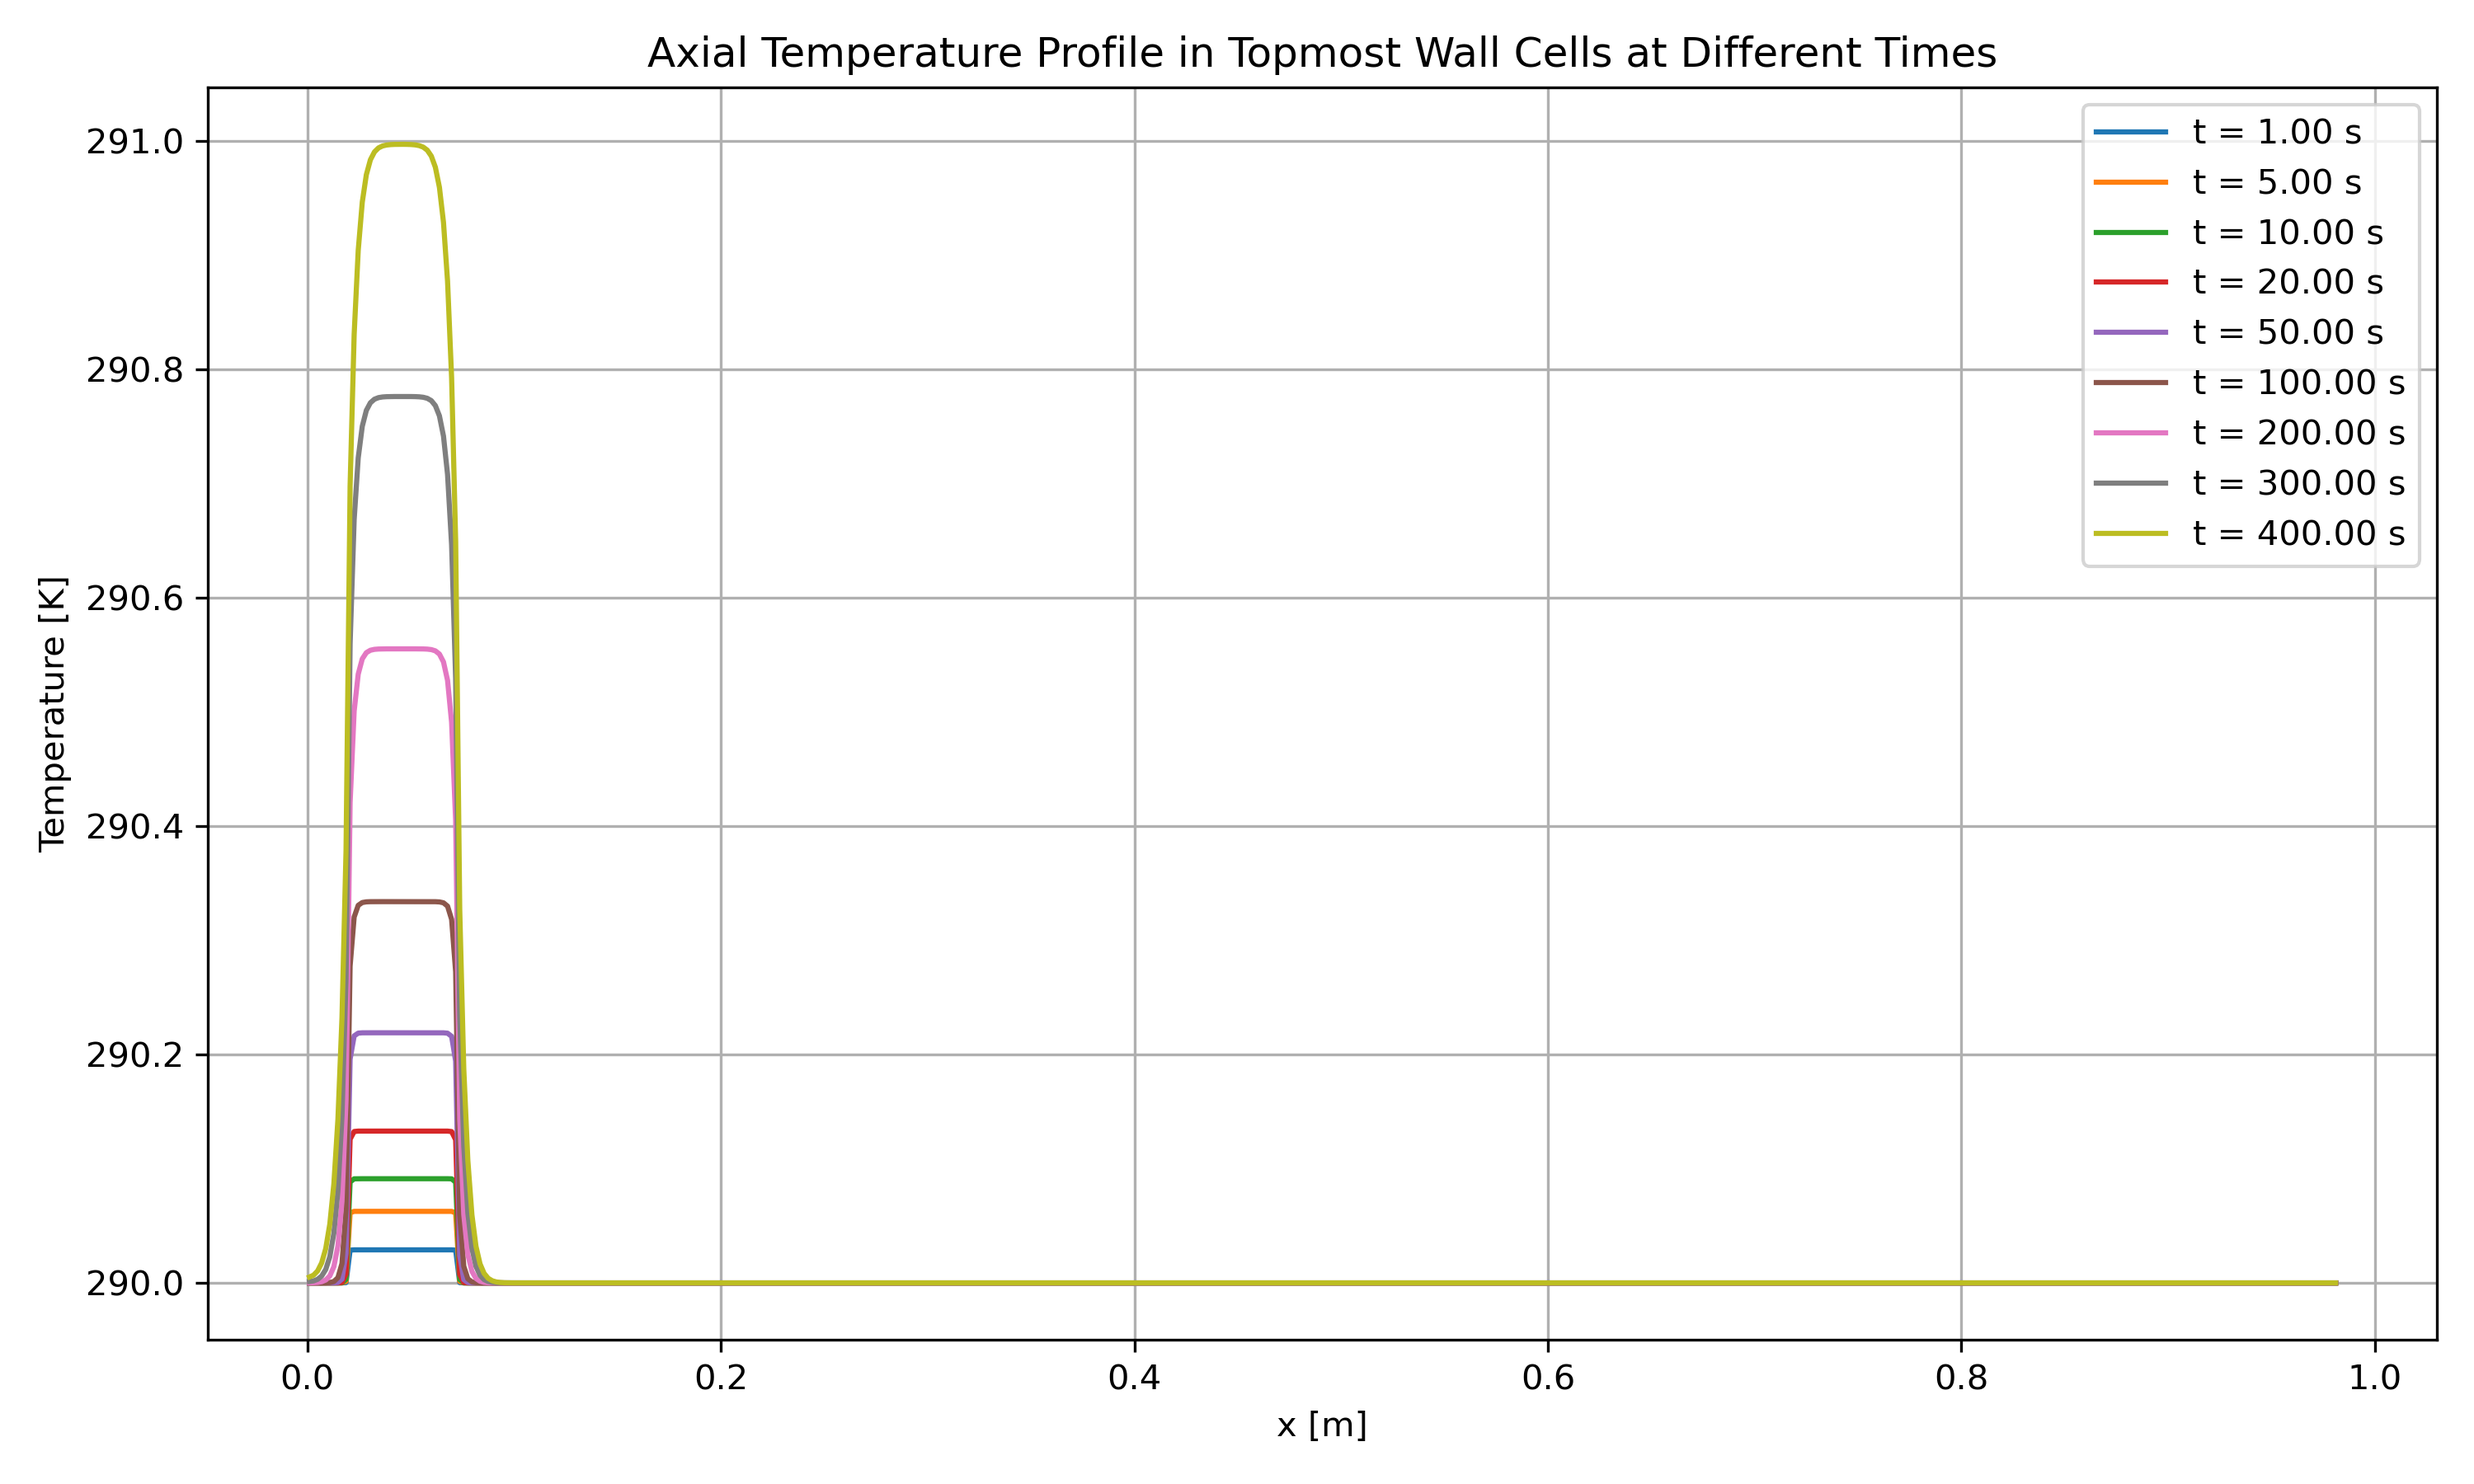
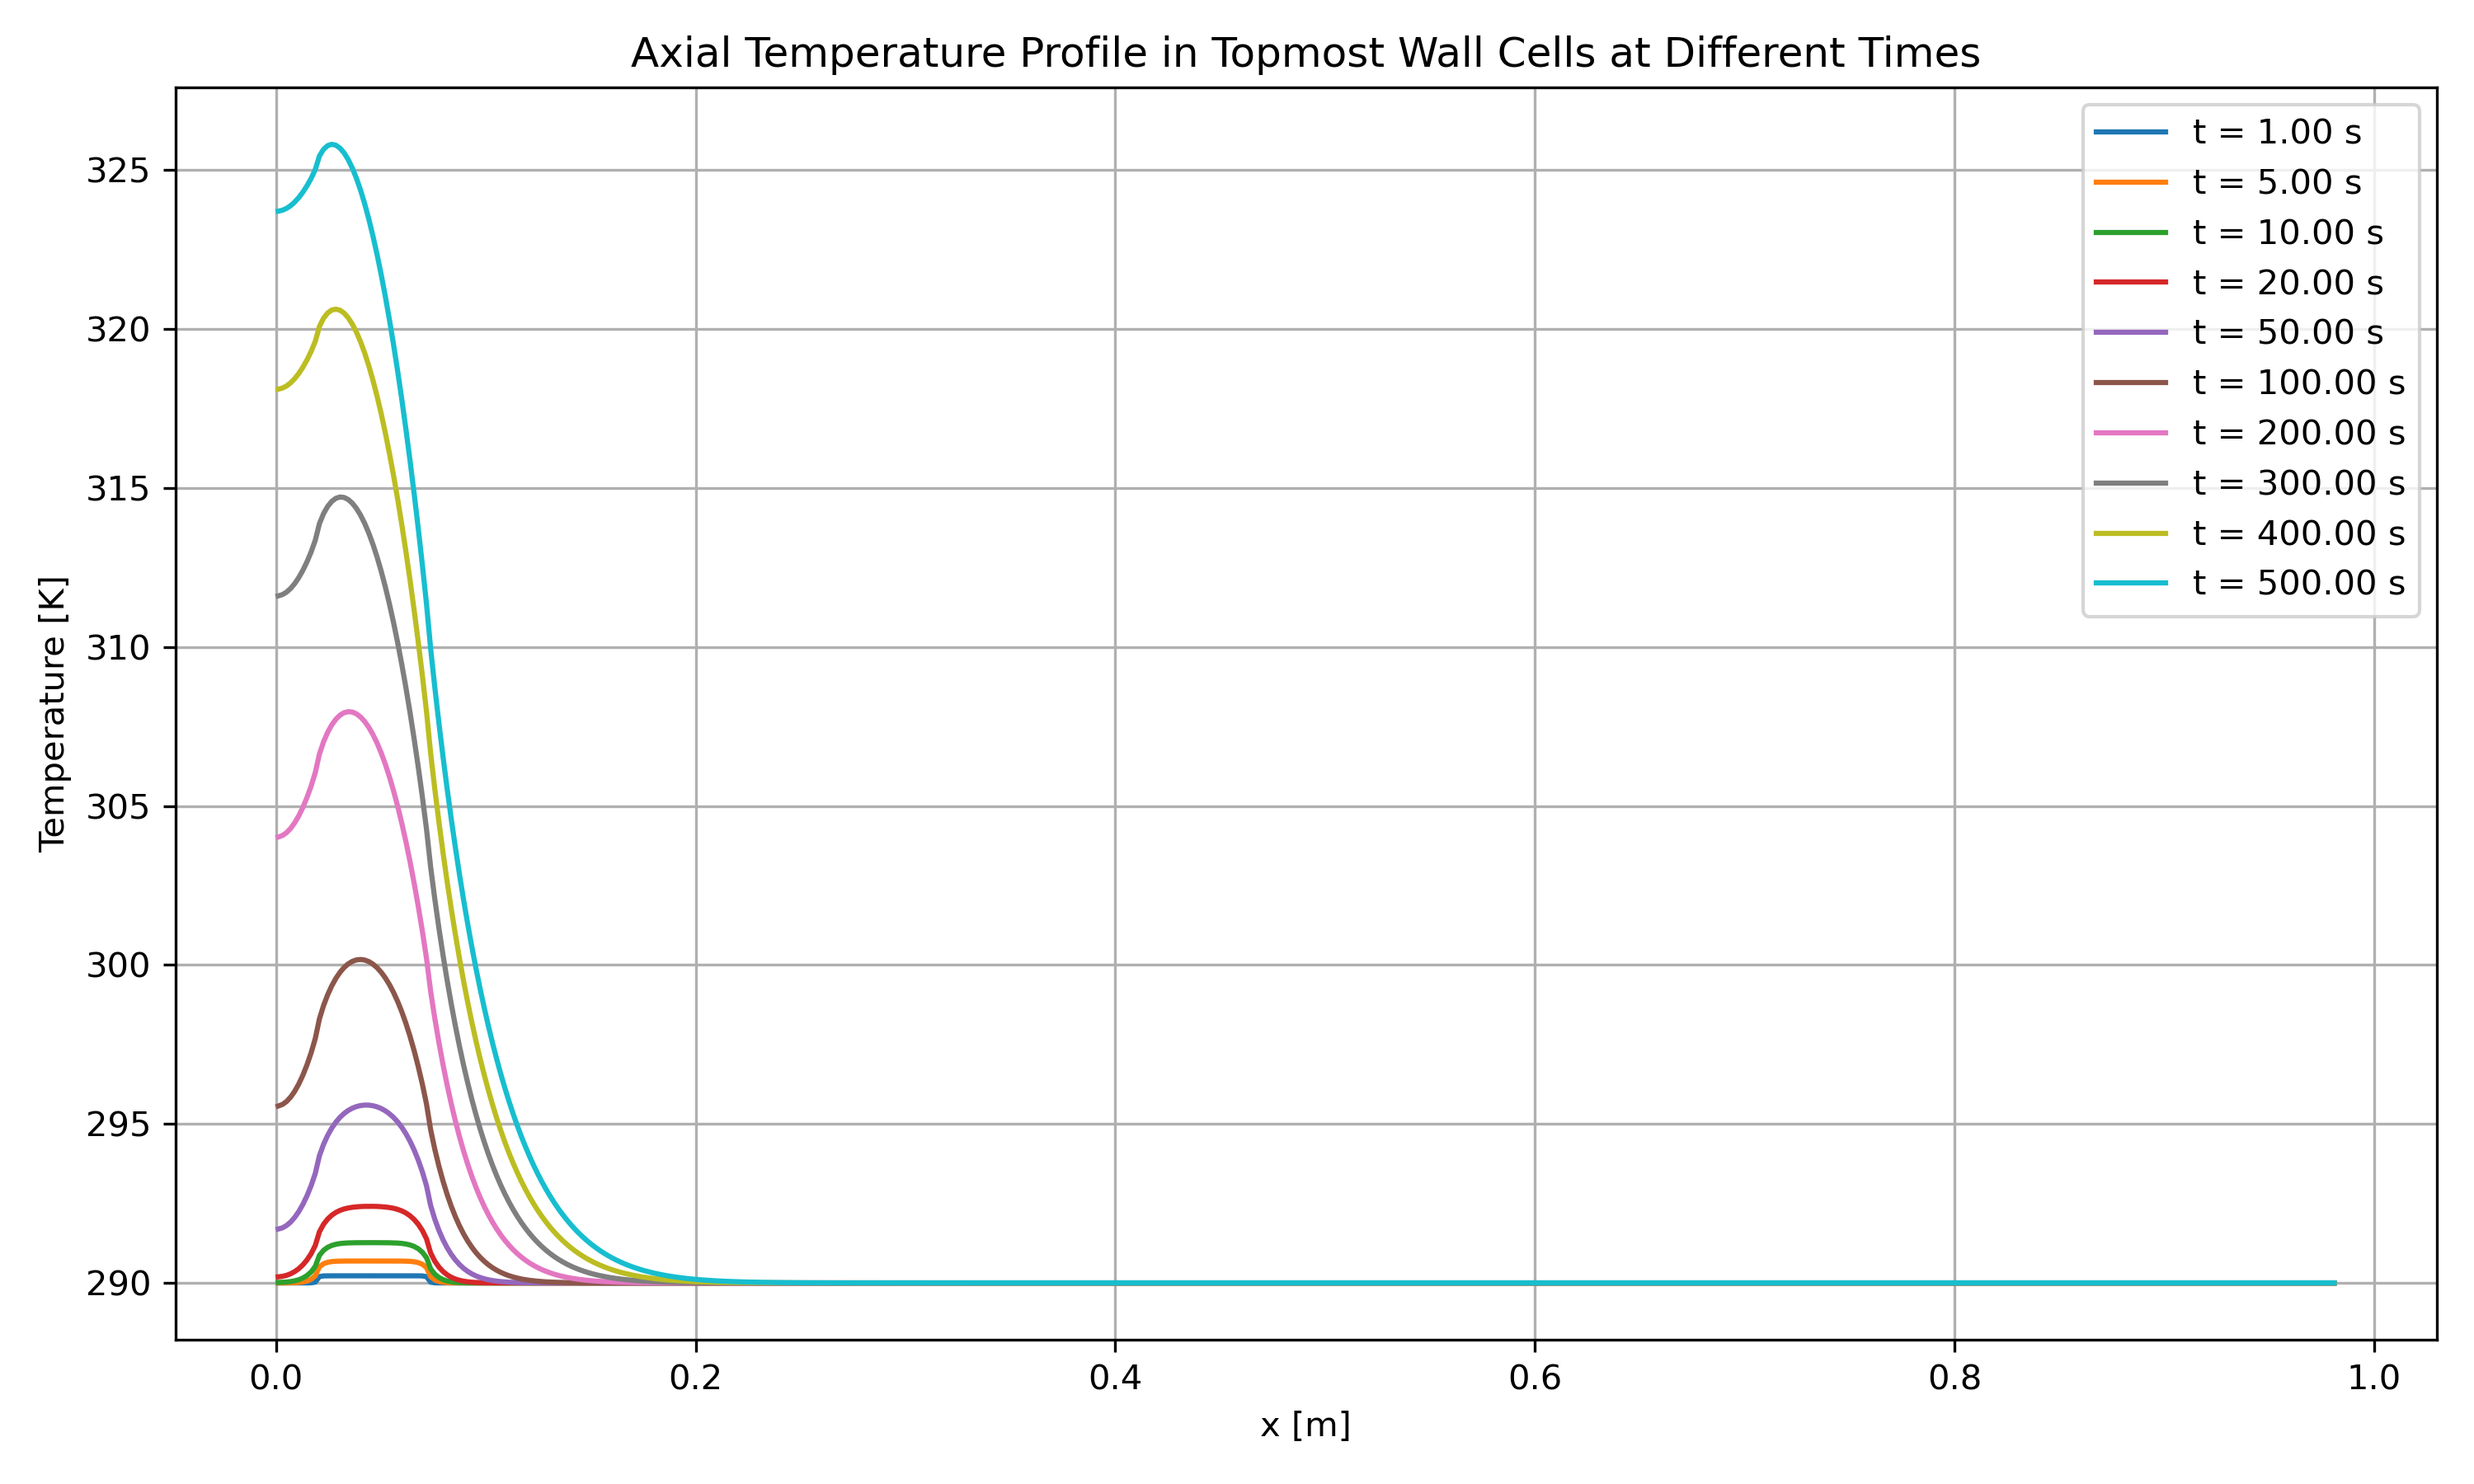
latest

diff --git a/src/2d/main_clean.py b/src/2d/main_clean.py
@@ -102,7 +102,7 @@ k = vc_properties['thermal_conductivity'](T.faceValue, mesh, 'evap_cond', sodium
     + wick_properties['thermal_conductivity'](T.faceValue, sodium_properties, steel_properties, parameters) * (wick_faces) \
     + steel_properties['thermal_conductivity'](T.faceValue) * (wall_faces)
 
-k_viewer = CellVariable(mesh=mesh, value=k)
+k_viewer = FaceVariable(mesh=mesh, value=k)
 
 cp = vc_properties['specific_heat'](T) * (vc_evap_cond_cells) \
     + vc_properties['specific_heat'](T) * (vc_adiabatic_cells) \
@@ -114,6 +114,8 @@ rho = vc_properties['density'](T) * (vc_evap_cond_cells) \
     + wick_properties['density'](T, sodium_properties, steel_properties, parameters) * (wick_cells) \
     + steel_properties['density_evap_adia'](T) * (wall_cells)
 
+
+dt = 0.02
 
 # Define boundary condition masks
 faces_evaporator = (mesh.facesTop & ((x_face < dimensions['L_input_right']) & (x_face > dimensions['L_input_left'])))
@@ -138,18 +140,16 @@ a = FaceVariable(mesh=mesh, value=h*n, rank=1)
 b = FaceVariable(mesh=mesh, value=k, rank=0)
 g = FaceVariable(mesh=mesh, value=h*T_amb, rank=0)
 RobinCoeff = faces_condenser * k * n / (dPf.dot(a) + b)
-eq = (TransientTerm(coeff=rho*cp, var=T) == DiffusionTerm(coeff=Gamma, var=T) + (RobinCoeff * g).divergence
+eq = (ImplicitSourceTerm(coeff=cp * rho / dt, var=T) - rho * cp * T.old / dt == DiffusionTerm(coeff=Gamma, var=T) + (RobinCoeff * g).divergence
        - ImplicitSourceTerm(coeff=(RobinCoeff * a.dot(n)).divergence, var=T)
        + (faces_evaporator * (q/k)).divergence)
 
 T.setValue(T_amb)  # Set initial temperature
 
-dt = 0.02
-t_end = 3000.0 # seconds
+t_end = 600.0 # seconds
 
-# Try plotting k
-# viewer = Viewer(vars=T, title="Temperature Distribution")
-# viewer.plot()
+viewer = Viewer(vars=T, title="Temperature Distribution")
+viewer.plot()
 
 measure_times = [1, 5, 10, 20, 50]
 measure_times.extend(range(100, 3001, 100)) # seconds
@@ -191,22 +191,23 @@ print(f"Simulating for {t_end} seconds...")
 #     #     if __name__ == "__main__":
 #     #         viewer.plot()
 
-# TRY with guyer implementation in equation
 # Solver WITH temperature-dependent properties (DON'T FORGET hasOld=True!)
-sweeps = 5
+sweeps = 2
 timestep = 0
-for t in range(int(t_end/dt)):
+for t in npx.arange(0, t_end, dt):
     T.updateOld()
-    # UPDATE k HERE!
+    k_viewer.setValue(k)
     for sweep in range(sweeps):
         res = eq.sweep(var=T, dt=dt)
-        print(f"Iteration {t}, Sweep {sweep}, Residual: {res}")
-    # if __name__ == "__main__":
-    #     viewer.plot()
+        # print(f"Iteration {t}, Sweep {sweep}, Residual: {res}")
+    if t % 5 == 0:
+        if __name__ == "__main__":
+            viewer.plot()
+
     if next_measure_time_idx < len(measure_times) and t >= measure_times[next_measure_time_idx]:
-        print(f"Time {t*dt:.2f}")
+        print(f"Time {t:.2f}, Residual: {res}")
         profiles.append(T.value[top_wall_mask].copy())
-        actual_profile_times.append(t*dt)
+        actual_profile_times.append(t)
         next_measure_time_idx += 1
 
 end_time = time.time() # Record end time
